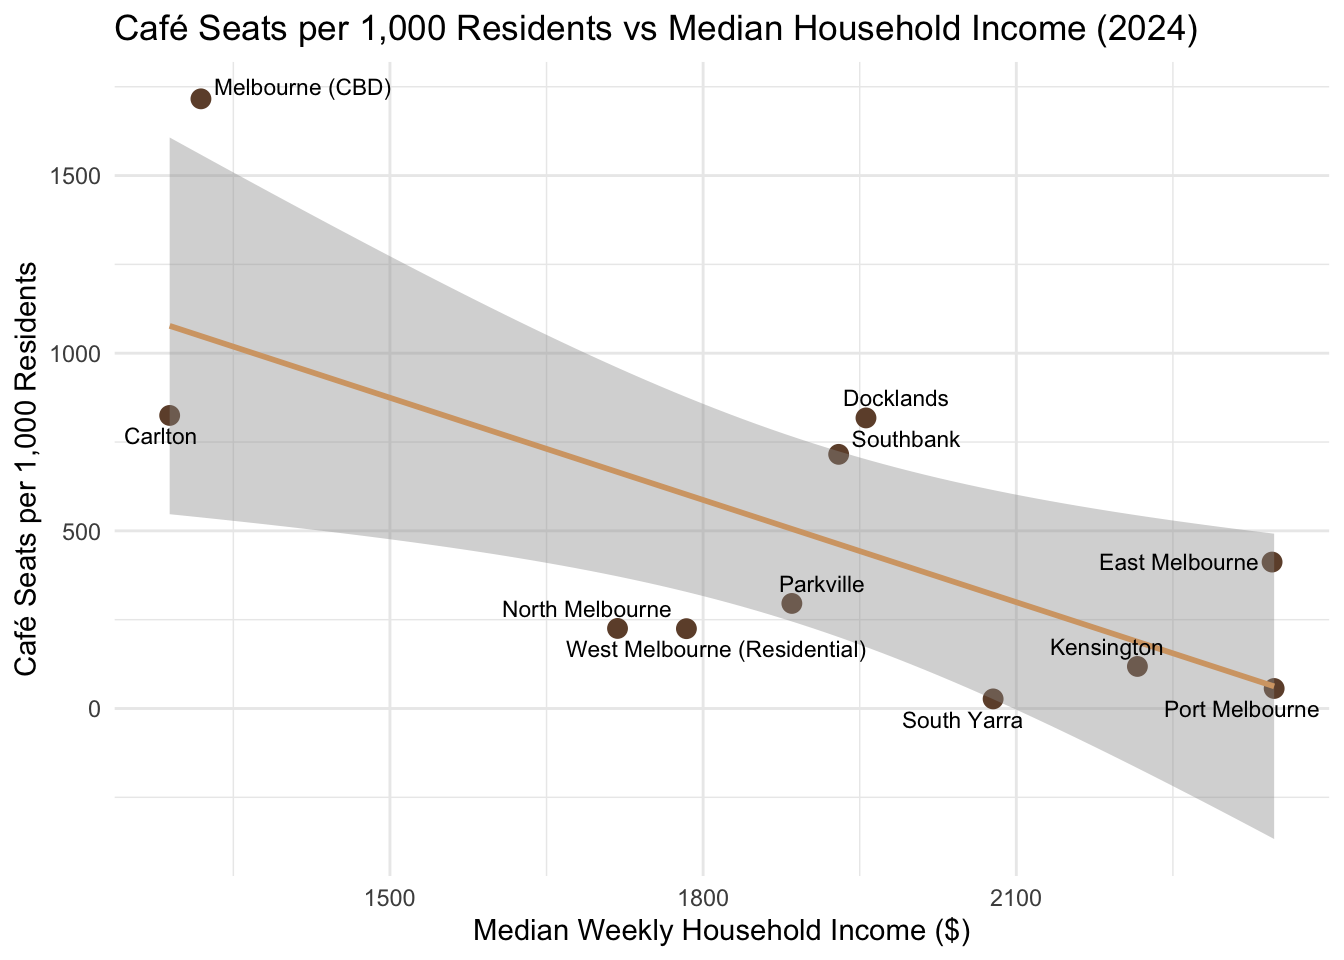
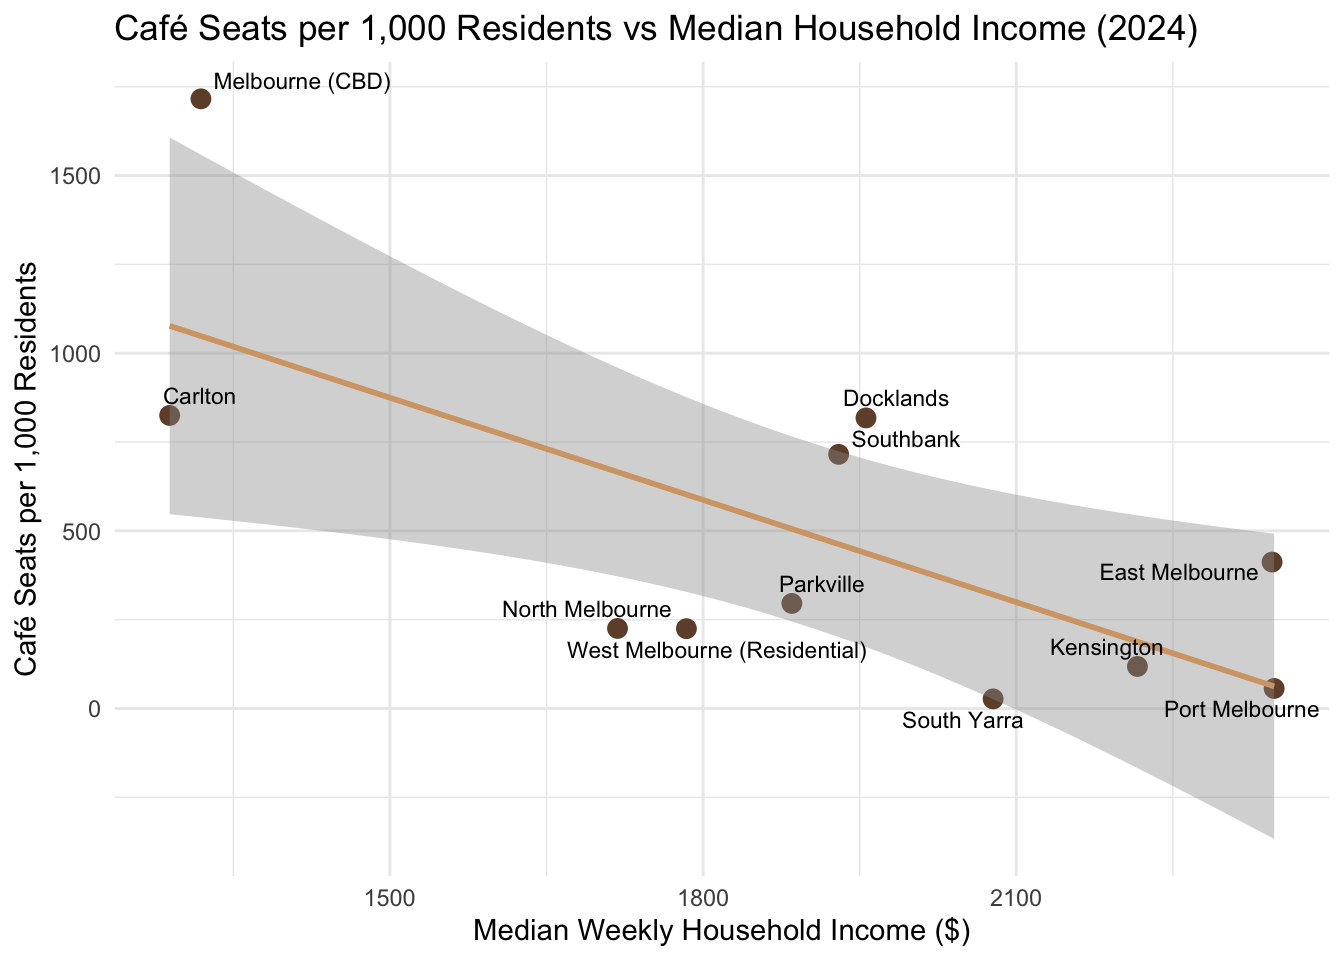
v5: fixed README.md

diff --git a/assignment4_35196726.html b/assignment4_35196726.html
@@ -988,7 +988,7 @@ Geodetic CRS:  WGS 84</code></pre>
 </ul>
 <p>The processing decisions, coding, and written submission were done by me.</p>
 <p>Here is the link(s) to all prompts used :</p>
-<p><a href="https://claude.ai/chat/c7cc28ec-c567-44df-8db2-e8d4a4aa99ab" class="uri">https://claude.ai/chat/c7cc28ec-c567-44df-8db2-e8d4a4aa99ab</a></p>
+<p><a href="https://claude.ai/share/c17de840-6a74-43c1-be60-acf150806f24" class="uri">https://claude.ai/share/c17de840-6a74-43c1-be60-acf150806f24</a></p>
 </div>
 </div>
 </div>

diff --git a/README.md b/README.md
@@ -19,6 +19,7 @@ How has Melbourne's café and dining scene evolved over two decades
 - ABS ASGS 2021 Geographic Descriptor File
 
 ## File Structure
+```
 data/
   raw/
     2021Census_G01_VIC_SA2.csv
@@ -39,6 +40,8 @@ data/
   data-dictionary.csv
   sample-clue.csv
   sample-equity.csv
+  
+```
 
 ## How to Reproduce
 1. Download data files from sources listed above and place in data/raw/
@@ -46,4 +49,8 @@ data/
 3. Render assignment4_35196726.qmd
 
 ## Requirements
-R packages: tidyverse, here, sf, readxl, ggrepel, patchwork
+R packages: 
+```
+tidyverse, here, sf, readxl, ggrepel, patchwork
+
+```
